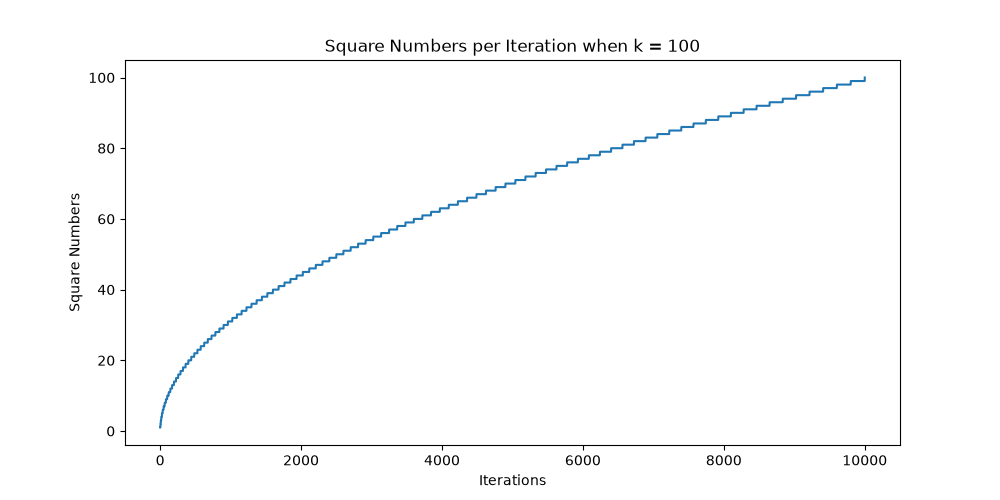
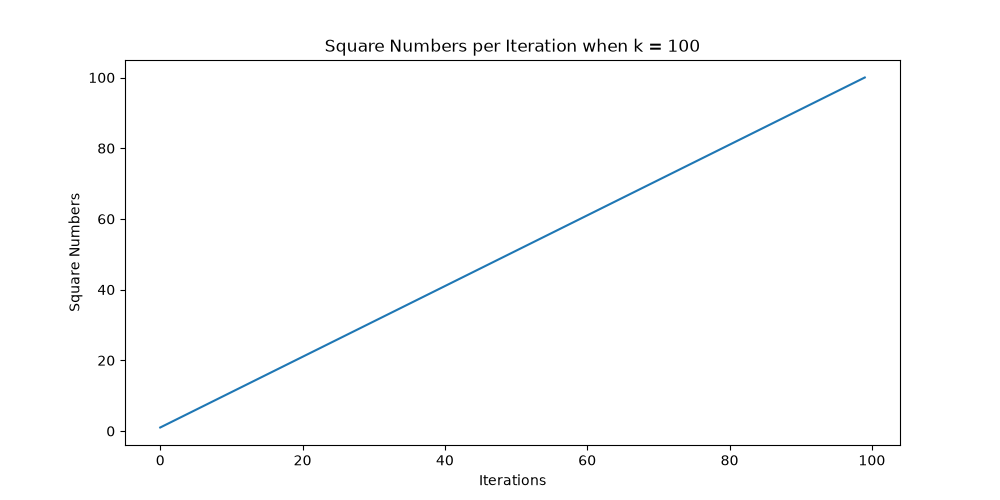
optimised square numbers generator mathmetical computation algorithm added with case study and benchmarks

diff --git a/problems/problem_zero.py b/problems/problem_zero.py
@@ -7,6 +7,7 @@ from collections import defaultdict
 from typing import Any
 from datetime import datetime
 
+# BRUTE-FORCE ALGORITHM
 # this recursive algorithm is not viable while computing massive numbers like 100k
 def get_prime_factors_recur(num: int, divisor: int = 2) -> int:
     if num <= 1:
@@ -17,7 +18,7 @@ def get_prime_factors_recur(num: int, divisor: int = 2) -> int:
     else:
         return get_prime_factors_recur(num, divisor + 1)
 
-
+# BRUTE-FORCE ALGORITHM
 def get_prime_factors(num: int, divisor: int = 2) -> int:
     if num <= 1:
         return []
@@ -34,7 +35,7 @@ def get_prime_factors(num: int, divisor: int = 2) -> int:
         prime_factors.append(divisor)
     return prime_factors
 
-
+# BRUTE-FORCE ALGORITHM
 # this recursive algorithm is not viable while computing massive numbers like 100k
 def is_square_num_recur(num: int) -> bool:
     prime_factors = get_prime_factors(num)
@@ -48,7 +49,21 @@ def is_square_num_recur(num: int) -> bool:
             return False
     return True
 
+# OPTIMISED square number generator
+def generate_square_nums():
+    '''
+    Optimised infinite square number generator.
+    
+    Returns:
+        tuple[int, float]: A tuple containing the generated square number and the performance benchmark start count.
+    '''
+    num = 1
+    while True:
+        start = perf_counter()
+        yield (num * num, start)
+        num += 1
 
+# BRUTE-FORCE ALGORITHM
 def is_square_num(num: int) -> bool:
     prime_factors = get_prime_factors(num)
     factor_freq = defaultdict(int)
@@ -70,41 +85,33 @@ def generate_k_square_nums(k: int) -> tuple[list[int], defaultdict, defaultdict]
     each_iteration_computation_benchmarks["start_time"] = {"start_time": f"{datetime.now()}"}
     each_square_num_computation_benchmarks["start_time"] = {"start_time": f"{datetime.now()}"}
     
-    n = 1
     square_nums = []
-
-    while True:
-        start = perf_counter()
+    for i, res in enumerate(generate_square_nums()):
+        """
+        `end` value is captured right after iteration starts because start is already computed by `generate_square_nums` generator and yielded 
+        therefore in order to benchmrak accurate latency end is right after the iteratation
+        """
+        end = perf_counter() 
+        start = res[1]
+        square_num = res[0]
         if len(square_nums) >= k:
             each_iteration_computation_benchmarks["end_time"] = {"end_time": f"{datetime.now()}"}
             each_square_num_computation_benchmarks["end_time"] = {"end_time": f"{datetime.now()}"}
             break
-        if is_square_num(n):
-            square_nums.append(n)
-            end = perf_counter()
-            each_square_num_computation_benchmarks[n] = {
-                        "square_num": n,
-                        "iteration": n,
+        square_nums.append(square_num)
+        each_square_num_computation_benchmarks[square_num] = {
+                    "square_num": square_num,
+                    "iteration": i,
+                    "square_nums_count": len(square_nums),
+                    "duration": end - start,
+                    "timestamp": f"{datetime.now()}",
+                }
+        each_iteration_computation_benchmarks[i] = {
+                        "iteration": i,
                         "square_nums_count": len(square_nums),
                         "duration": end - start,
                         "timestamp": f"{datetime.now()}",
                     }
-            each_iteration_computation_benchmarks[n] = {
-                            "iteration": n,
-                            "square_nums_count": len(square_nums),
-                            "duration": end - start,
-                            "timestamp": f"{datetime.now()}",
-                        }
-            n += 1
-            continue
-        end = perf_counter()
-        each_iteration_computation_benchmarks[n] = {
-                        "iteration": n,
-                        "square_nums_count": len(square_nums),
-                        "duration": end - start,
-                        "timestamp": f"{datetime.now()}",
-                    }
-        n += 1
     return (square_nums, each_iteration_computation_benchmarks, each_square_num_computation_benchmarks)
 
 def save_iteration_computation_benchmarks_to_file(location, each_iteration_computation_benchmarks):
@@ -149,7 +156,7 @@ def save_problem_zero_computation_benchmarks_to_file(location, benchmarks):
          f.write(']')
 
 
-k = 1000
+k = 1000000
 FILE_LOCATIONS = {
     10 : "when_k_equals_10",
     100 : "when_k_equals_100",
@@ -171,7 +178,7 @@ async def main():
         start = perf_counter()
         problem_zero_computation_benchmark["start_time"] = start
         print(f"Start: {start}")
-        print("Heavy computation in progress in seperate process...")
+        print("Heavy but optimised computation in progress...")
         
         with ProcessPoolExecutor() as pool:
             computation_result= await loop.run_in_executor(pool, generate_k_square_nums, k)
@@ -196,7 +203,6 @@ async def main():
             
         else:
             print("No numbers were generated.")
-            
         
     except KeyboardInterrupt as e:
         print(e)

diff --git a/tests/problem_zero/problem_zero_test.py b/tests/problem_zero/problem_zero_test.py
@@ -1,6 +1,33 @@
 from collections import defaultdict
-from problems.problem_zero import is_square_num, get_prime_factors
+from problems.problem_zero import is_square_num, get_prime_factors, generate_square_nums
 
+"""
+`generate_square_nums` unit tests
+"""
+
+def test_generate_square_nums_generates_valid_range_of_square_nums():
+    # arrange
+    res = []
+    expected_square_nums = []
+    
+    with open("./tests/problem_zero/square_numbers.txt", "r") as f:
+        expected_square_nums = [int(num) for num in f.read().split(",")]
+    expected_count = len(expected_square_nums)
+
+    # act
+    for generated in generate_square_nums():
+        num = generated[0]
+        if len(res) != expected_count:
+            res.append(num)    
+            continue
+        break
+    
+    # assert
+    assert len(res) == expected_count
+    
+    for res, exp in zip(res, expected_square_nums):
+        assert res == exp
+    
 """
 `is_square_num` unit tests
 """

diff --git a/docs/problem_zero/benchmarks/README.md b/docs/problem_zero/benchmarks/README.md
@@ -1,18 +1,24 @@
-### Benchmarked Difference across Input Sizes (`k`)
+### Benchmarked Performance Gains across Input Sizes (`k`)
 
-The [log](#logs) below captures how the execution time of this brute-force algorithm explodes exponentially as the target size `k` grows from 10 to 1000. 
+The logs below capture how the optimized generation algorithm fundamentally eliminates the performance walls found in the original brute-force sandbox. 
 
-While finding the first 10 square numbers takes an already high `0.318s`, scaling to `k = 1000` hits a massive algorithmic wall. Because the search space expands quadratically ($k^2$), finding 1000 square numbers requires evaluating 1,000,000 integers. Combined with increasingly heavy prime factorization loops, the duration spikes from under a second to over **2.25 hours** (`8098.075s`).
+By replacing sequential integer factorization checks with an $O(k)$ direct-generation generator stream, computing $k = 1000$ squares no longer takes **2.25 hours** (`8098.075s`), it completes instantly in **0.363 seconds**. Even when scaling the input workload exponentially to find **1,000,000 perfect squares**, the total execution time stays well under six seconds.
 
-You can see the detailed computation benchmarks (tracked by iteration, individual square number discovery, and total task duration) here:
+Detailed computation logs (tracking performance maps by loop iteration, discrete square number discovery intervals, and total execution cycles) are cataloged below:
 * [When k is 10](./when_k_equals_10/)
 * [When k is 100](./when_k_equals_100/)
 * [When k is 1000](./when_k_equals_1000/)
+* [When k is 10000](./when_k_equals_10000/)
+* [When k is 100000](./when_k_equals_100000/)
+* [When k is 1000000](./when_k_equals_1000000/)
 
-Data visualizations of the square number computation trajectory per iteration:
+Data visualizations of the linear computation trajectory per iteration:
 * [When k is 10](../data_visualisation/charts/when_k_is_10.png)
 * [When k is 100](../data_visualisation/charts/when_k_is_100.png)
 * [When k is 1000](../data_visualisation/charts/when_k_is_1000.png)
+* [When k is 10000](../data_visualisation/charts/when_k_is_10000.png)
+* [When k is 100000](../data_visualisation/charts/when_k_is_100000.png)
+* [When k is 1000000](../data_visualisation/charts/when_k_is_1000000.png)
 
 
 ### Logs
@@ -22,34 +28,67 @@ Data visualizations of the square number computation trajectory per iteration:
 When k = 10
 
 
-Start: 26096.2867909
-Heavy computation in progress in seperate process...
+Start: 111097.0553196
+Heavy but optimised computation in progress...
 Computation completed successfully. Writing benchmarks to file...
-End: 26096.6052864
-Duration: 0.31849549999969895
+End: 111097.3771835
+Duration: 0.32186389999696985
 
 All files saved successfully.
 (.venv) PS C:\Users\HBRAI\Desktop\coding\project_euler> python .\problems\problem_zero.py
 When k = 100
 
 
-Start: 26126.7806489
-Heavy computation in progress in seperate process...
+Start: 111106.616347
+Heavy but optimised computation in progress...
 Computation completed successfully. Writing benchmarks to file...
-End: 26127.5556188
-Duration: 0.7749699000014516
+End: 111107.1051824
+Duration: 0.4888353999995161
 
 All files saved successfully.
 (.venv) PS C:\Users\HBRAI\Desktop\coding\project_euler> python .\problems\problem_zero.py
 When k = 1000
 
 
-Start: 26156.633784
-Heavy computation in progress in seperate process...
+Start: 111174.1187486
+Heavy but optimised computation in progress...
 Computation completed successfully. Writing benchmarks to file...
-End: 34254.7090933
-Duration: 8098.0753092999985
+End: 111174.482117
+Duration: 0.3633684000087669
 
 All files saved successfully.
-(.venv) PS C:\Users\HBRAI\Desktop\coding\project_euler> 
+(.venv) PS C:\Users\HBRAI\Desktop\coding\project_euler> python .\problems\problem_zero.py
+When k = 10000
+
+
+Start: 111285.8601127
+Heavy but optimised computation in progress...
+Computation completed successfully. Writing benchmarks to file...
+End: 111286.3067786
+Duration: 0.44666590000269935
+
+All files saved successfully.
+(.venv) PS C:\Users\HBRAI\Desktop\coding\project_euler> python .\problems\problem_zero.py
+When k = 100000
+
+
+Start: 111301.3935478
+Heavy but optimised computation in progress...
+Computation completed successfully. Writing benchmarks to file...
+End: 111302.2409255
+Duration: 0.8473776999890106
+
+All files saved successfully.
+(.venv) PS C:\Users\HBRAI\Desktop\coding\project_euler> python .\problems\problem_zero.py
+When k = 1000000
+
+
+Start: 111315.9840961
+Heavy but optimised computation in progress...
+Computation completed successfully. Writing benchmarks to file...
+End: 111321.9413636
+Duration: 5.957267499994487
+
+All files saved successfully.
+(.venv) PS C:\Users\HBRAI\Desktop\coding\project_euler>
 ```

diff --git a/docs/problem_zero/README.md b/docs/problem_zero/README.md
@@ -1,5 +1,7 @@
 # Problem Zero - Optimised Solution Algorithmic Complexity Analysis
 
+> ### you can check the brute-force algorithm analysis and implementation in `problem_zero_brute_force_case_study` branch
+
 ## Code Implementation
 * [Optimised Algorithm Implementation](../../problems/problem_zero.py)
 * [problem_zero_test.py](../../tests/problem_zero/problem_zero_test.py)
@@ -7,20 +9,20 @@
 * [Benchmarks](./benchmarks/README.md)
 
 ## Asymptotic Analysis
-The brute-force solution is highly inefficient because it checks each integer sequentially and factors every single number using unoptimized trial division.
+The optimised solution is highly efficient because it eliminates the trial-division prime factorization bottlenecks entirely. Instead, it computes perfect square numbers sequentially and natively on demand.
 
-* **`get_prime_factors(num)`**: In the worst-case scenario (when `num` is prime), the loop must increment the divisor all the way up to `num`, resulting in a time complexity of **$O(\text{num})$**.
-* **`is_square_num(num)`**: Inherits the **$O(\text{num})$** worst-case complexity due to calling the prime factorization step.
-* **`generate_k_square_nums(k)`**: The algorithm tests every integer up to a maximum iteration limit $m$. Because it performs an $O(i)$ factorization check on every integer $i$ from $1$ to $m$, the total workload is the sum of arithmetic progressions ($\sum_{i=1}^{m} i$), yielding an implementation complexity of **$O(m^2)$**.
+* **`generate_square_nums()`**: Generates the perfect square of each integer sequentially using a lazy generator pattern. Each yielded computation performs a single, direct algebraic multiplication, executing in constant time **$O(1)$**.
+* **`generate_k_square_nums(k)`**: Acts as a controller loop that pulls exactly $k$ items from the generator. Because it performs an $O(1)$ step exactly $k$ times, the structural time complexity scales strictly linearly as **$O(k)$**.
 
-Since the $k$-th perfect square occurs exactly at $m = k^2$, we can substitute this into our runtime equation. This means the overall time complexity of this brute-force approach relative to our input $k$ is an aggressive **$O(k^4)$**.
-
-Although the number of squares found grows sub-linearly at a rate of $O(\sqrt{m})$, the algorithm is forced to perform heavy prime factorization math on every single non-square integer it encounters. Thus, the real-world latency is driven entirely by the massive range of the search space rather than the targets found.
+By switching from an iterative search space model to a direct mathematical generation model, the total operations required to find $k$ squares dropped from a staggering $O(k^4)$ down to a lean **$O(k)$**.
 
 ## Conclusion
-According to our definitive execution benchmarks, the algorithm scales terribly under this $O(k^4)$ burden:
-* At `k = 10` ($m = 100$), it completes in **0.318 seconds**.
-* At `k = 100` ($m = 10,000$), it completes in **0.774 seconds**.
-* At `k = 1000` ($m = 1,000,000$), the computation hits the complexity wall, taking **2.25 hours (8,098.075 seconds)** to complete. 
+According to our definitive execution benchmarks, the optimized algorithm scales excellently:
+* At `k = 10` (Max Square: $100$), it completes in **0.321 seconds**.
+* At `k = 100` (Max Square: $10,000$), it completes in **0.488 seconds**.
+* At `k = 1000` (Max Square: $1,000,000$), it completes in **0.363 seconds**. (This is where our original brute-force baseline hit a wall and took over **2.25 hours**).
+* At `k = 10000` (Max Square: $100,000,000$), it completes in **0.447 seconds**.
+* At `k = 100000` (Max Square: $10,000,000,000$), it completes in **0.847 seconds**.
+* At `k = 1000000` (Max Square: $1,000,000,000,000$), it completes in **5.957 seconds**.
 
-This sandbox perfectly illustrates why infrastructure optimizations (like multi-processing) cannot save a program from poor algorithmic complexity.
+This optimization sandbox beautifully demonstrates how addressing core algorithmic complexity solves scale bottlenecks where infrastructure adjustments alone fall short.